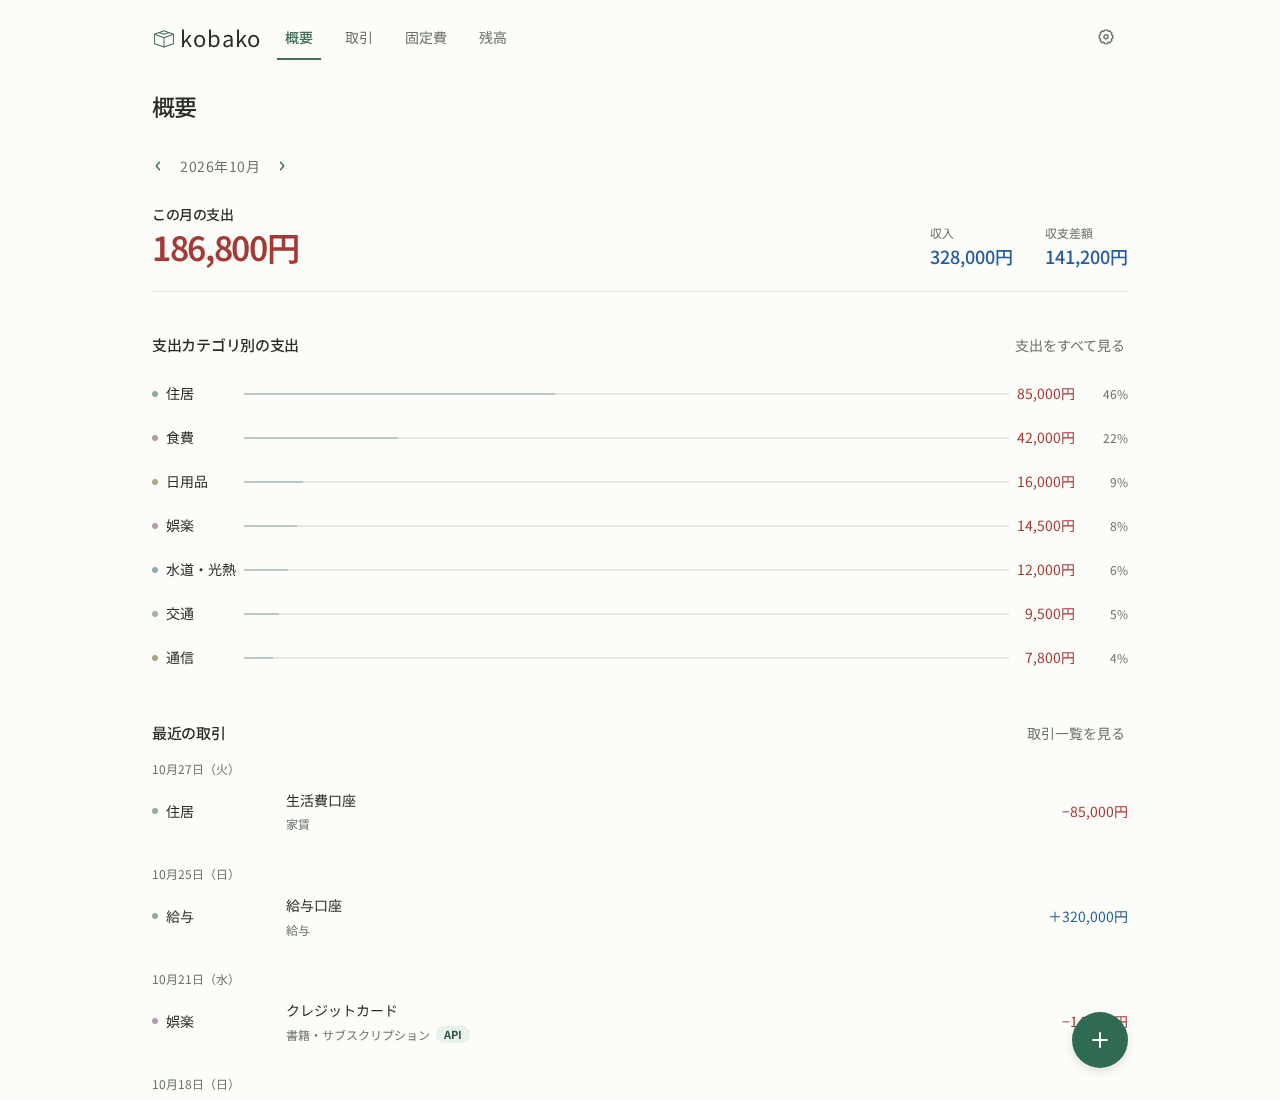
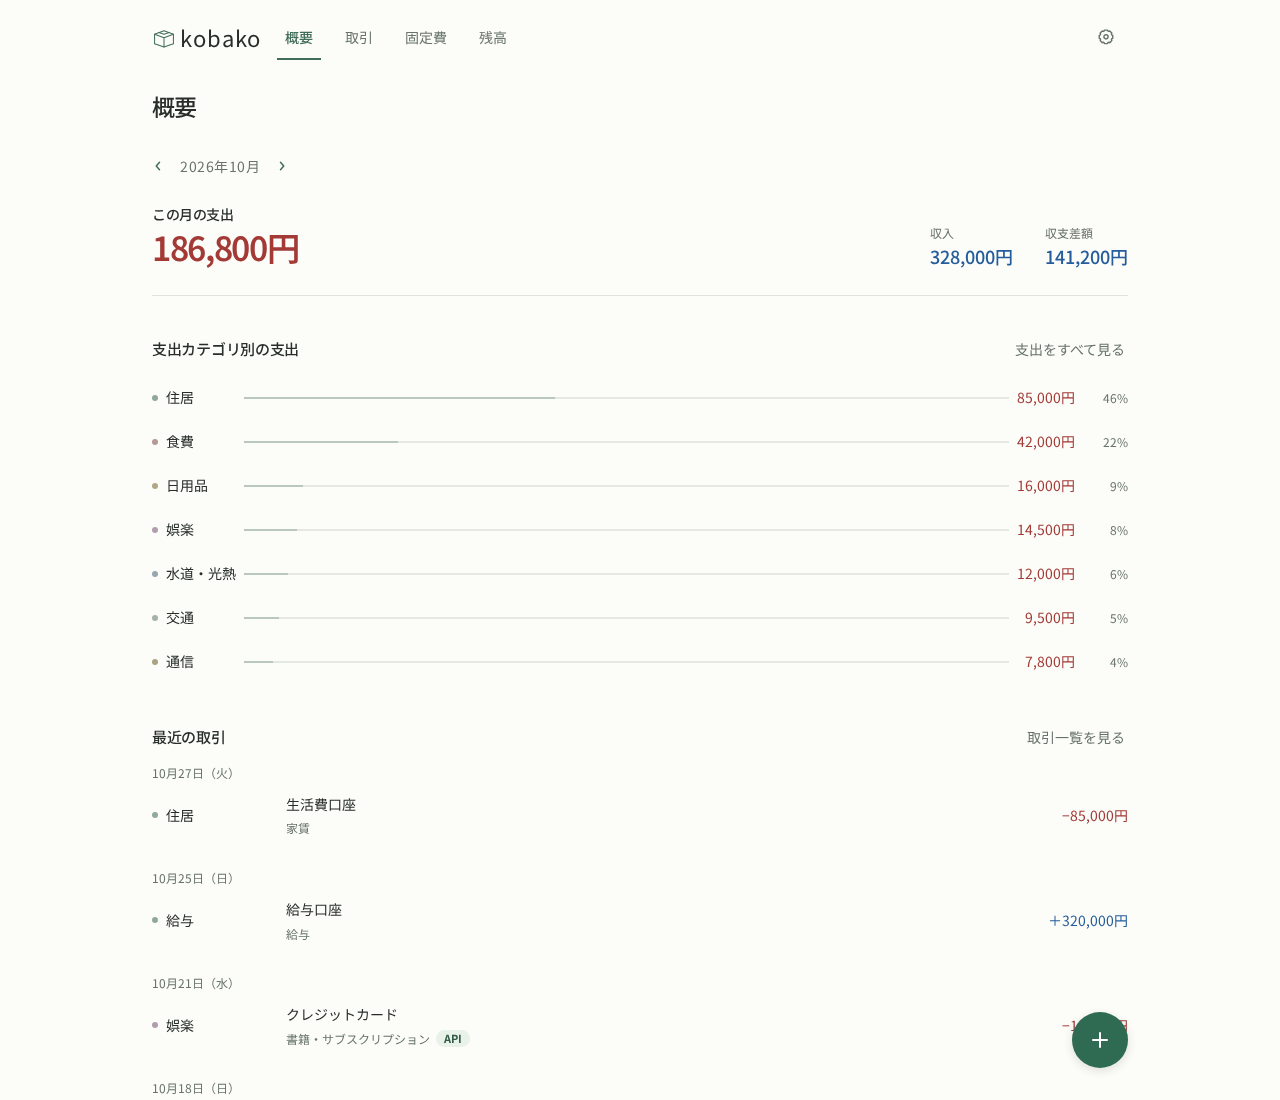
fix(web): align summary heights with responsive spec

diff --git a/apps/web/app/_components/page-summary.module.css b/apps/web/app/_components/page-summary.module.css
@@ -13,7 +13,7 @@
 }
 
 .hero {
-  padding-block-end: var(--space-block);
+  padding-block-end: calc(var(--space-block) + var(--space-within));
 }
 
 .static {
